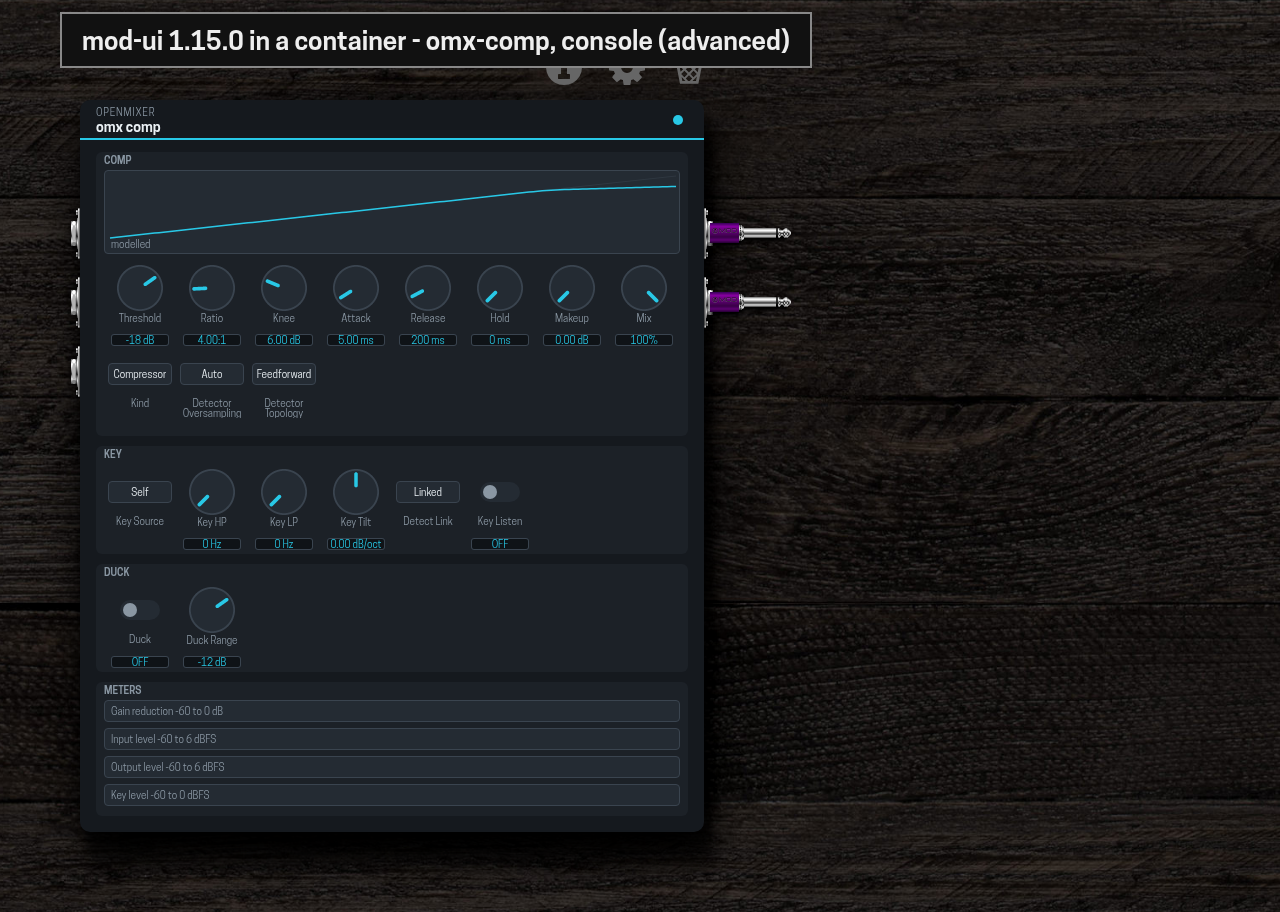
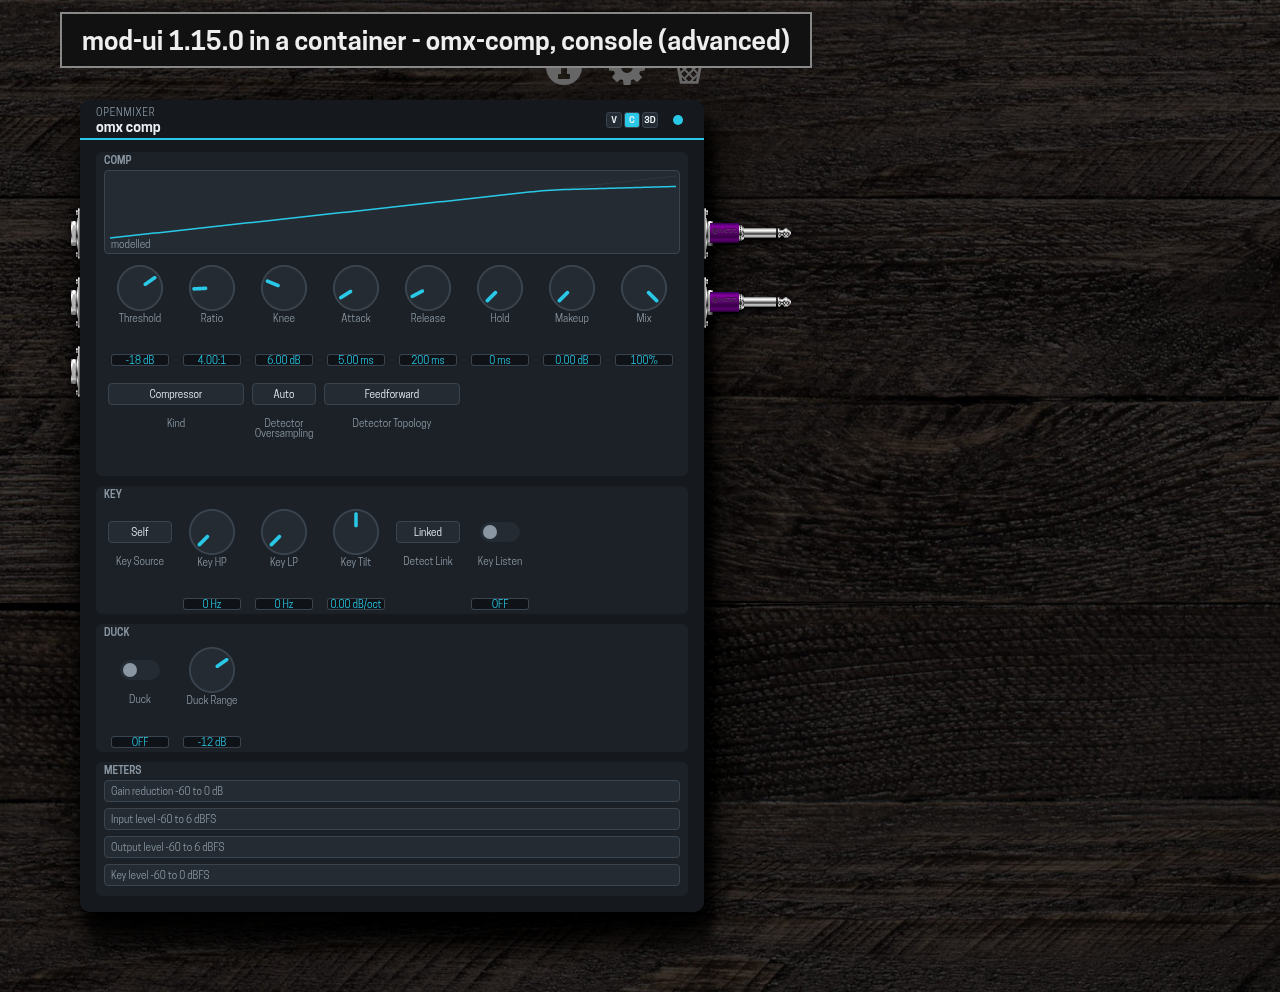
docs: the MOD GUI shots retaken with the needles, the look switch and the review fixes
mod-ui 1.15.0 in a container (v1.15.0.3371, commit 391c1ed): the eight shots again, the vintage
needles mid-lag with the output ports driven from the page, and the look switch in each look.
docs/shots/README.md says, per shot, what it is and which come-up values the strip shots engage.

diff --git a/docs/shots/README.md b/docs/shots/README.md
@@ -1,0 +1,9 @@
+# MOD GUI shots
+
+Every image: real mod-ui 1.15.0 (build v1.15.0.3371, commit 391c1ed, github.com/moddevices/mod-ui) running in a container, no audio host, drawn in Chromium; label "mod-ui 1.15.0 in a container".
+
+- `mod-ui-1.15.0-container-comp-before.png`: omx-comp as main ships it (before this change).
+- `mod-ui-1.15.0-container-comp-vintage.png`, `-comp-console.png`, `-comp-3d.png`: omx-comp, advanced tier, the pedal starting in each look.
+- `mod-ui-1.15.0-container-strip-vintage-easy.png`, `-strip-vintage-advanced.png`, `-strip-console-advanced.png`, `-strip-3d-advanced.png`: omx-strip. These are drawn from a bundle whose come-up values ENGAGE the filters and two bands (HPF on at 80 Hz, LPF on at 18 kHz, band 1 +3 dB, band 2 -3 dB) so the static EQ curve shows them; the shipped plugin comes up with hpfOn=false, lpfOn=false and every band off.
+- `mod-ui-1.15.0-container-comp-live-vintage-needles.png`: omx-comp, vintage, the needles mid-lag: the output ports (compIn, compOut, compKey, compGr) are driven from the page through mod-ui's own output_set path, a scripted level sweep, not an audio tone.
+- `mod-ui-1.15.0-container-comp-live-switch-console.png`, `-switch-3d.png`, `-switch-vintage.png`: the same pedal after a click on the header's look switch; the size and the ports do not change.
